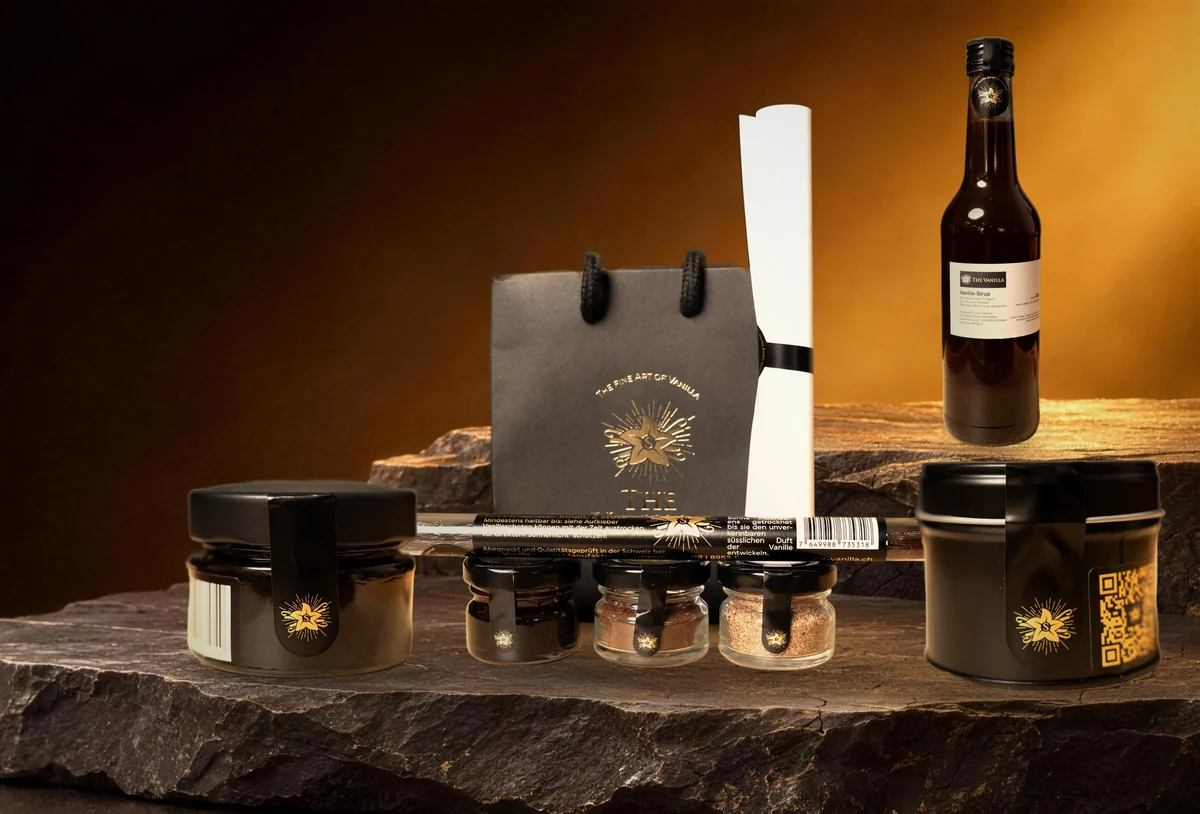
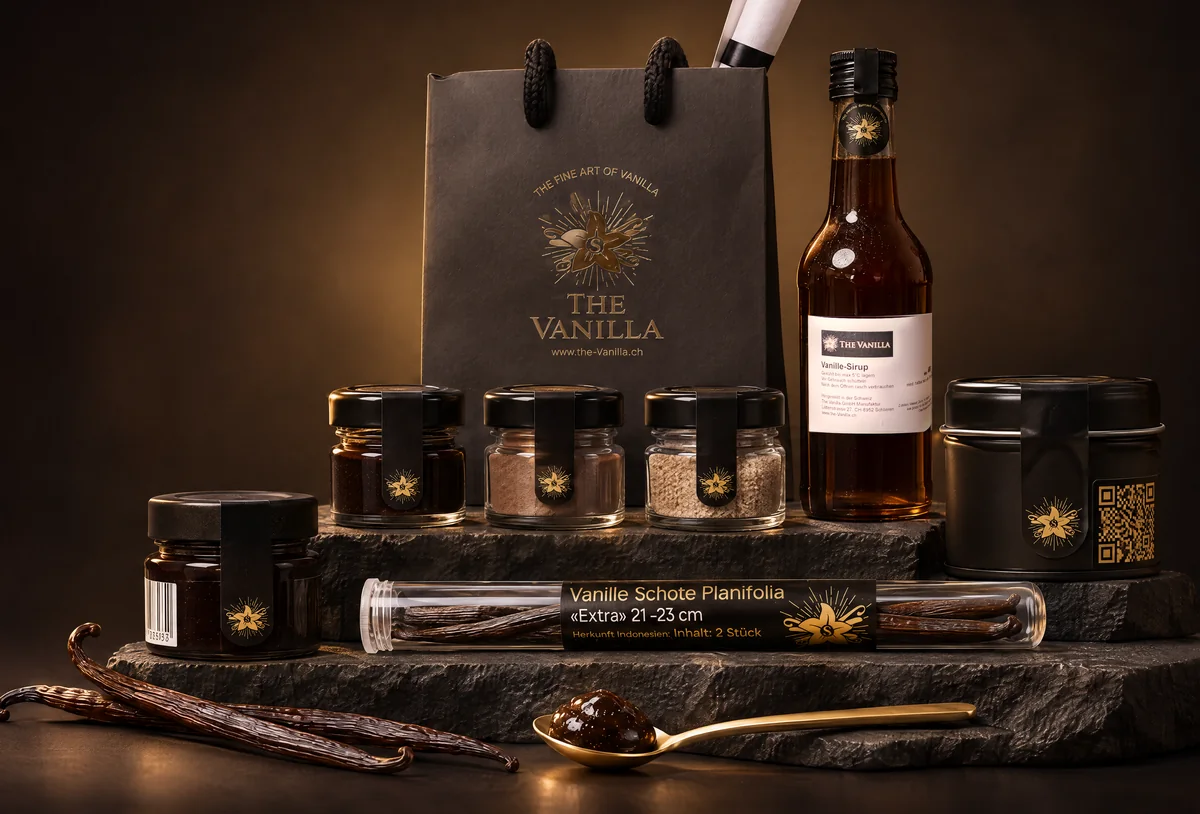
Black Friday: neues Titelbild mit echten Produkten

diff --git a/black-friday.html b/black-friday.html
@@ -821,8 +821,8 @@ footer ul a{color:rgba(255,255,255,.72);font-size:.92rem;transition:color .2s}fo
 
 <section class="bf-hero" id="top">
   <picture class="bf-bild" aria-hidden="true">
-    <source media="(max-width:900px)" srcset="img/bf/bf-hero-handy.webp">
-    <img src="img/bf/bf-hero.webp" alt="" fetchpriority="high">
+    <source media="(max-width:900px)" srcset="img/bf/bf-hero-handy.webp?v=3">
+    <img src="img/bf/bf-hero.webp?v=3" alt="" fetchpriority="high">
   </picture>
   <div class="bf-grain" aria-hidden="true"></div>
   <div class="wrap bf-hero-in">
